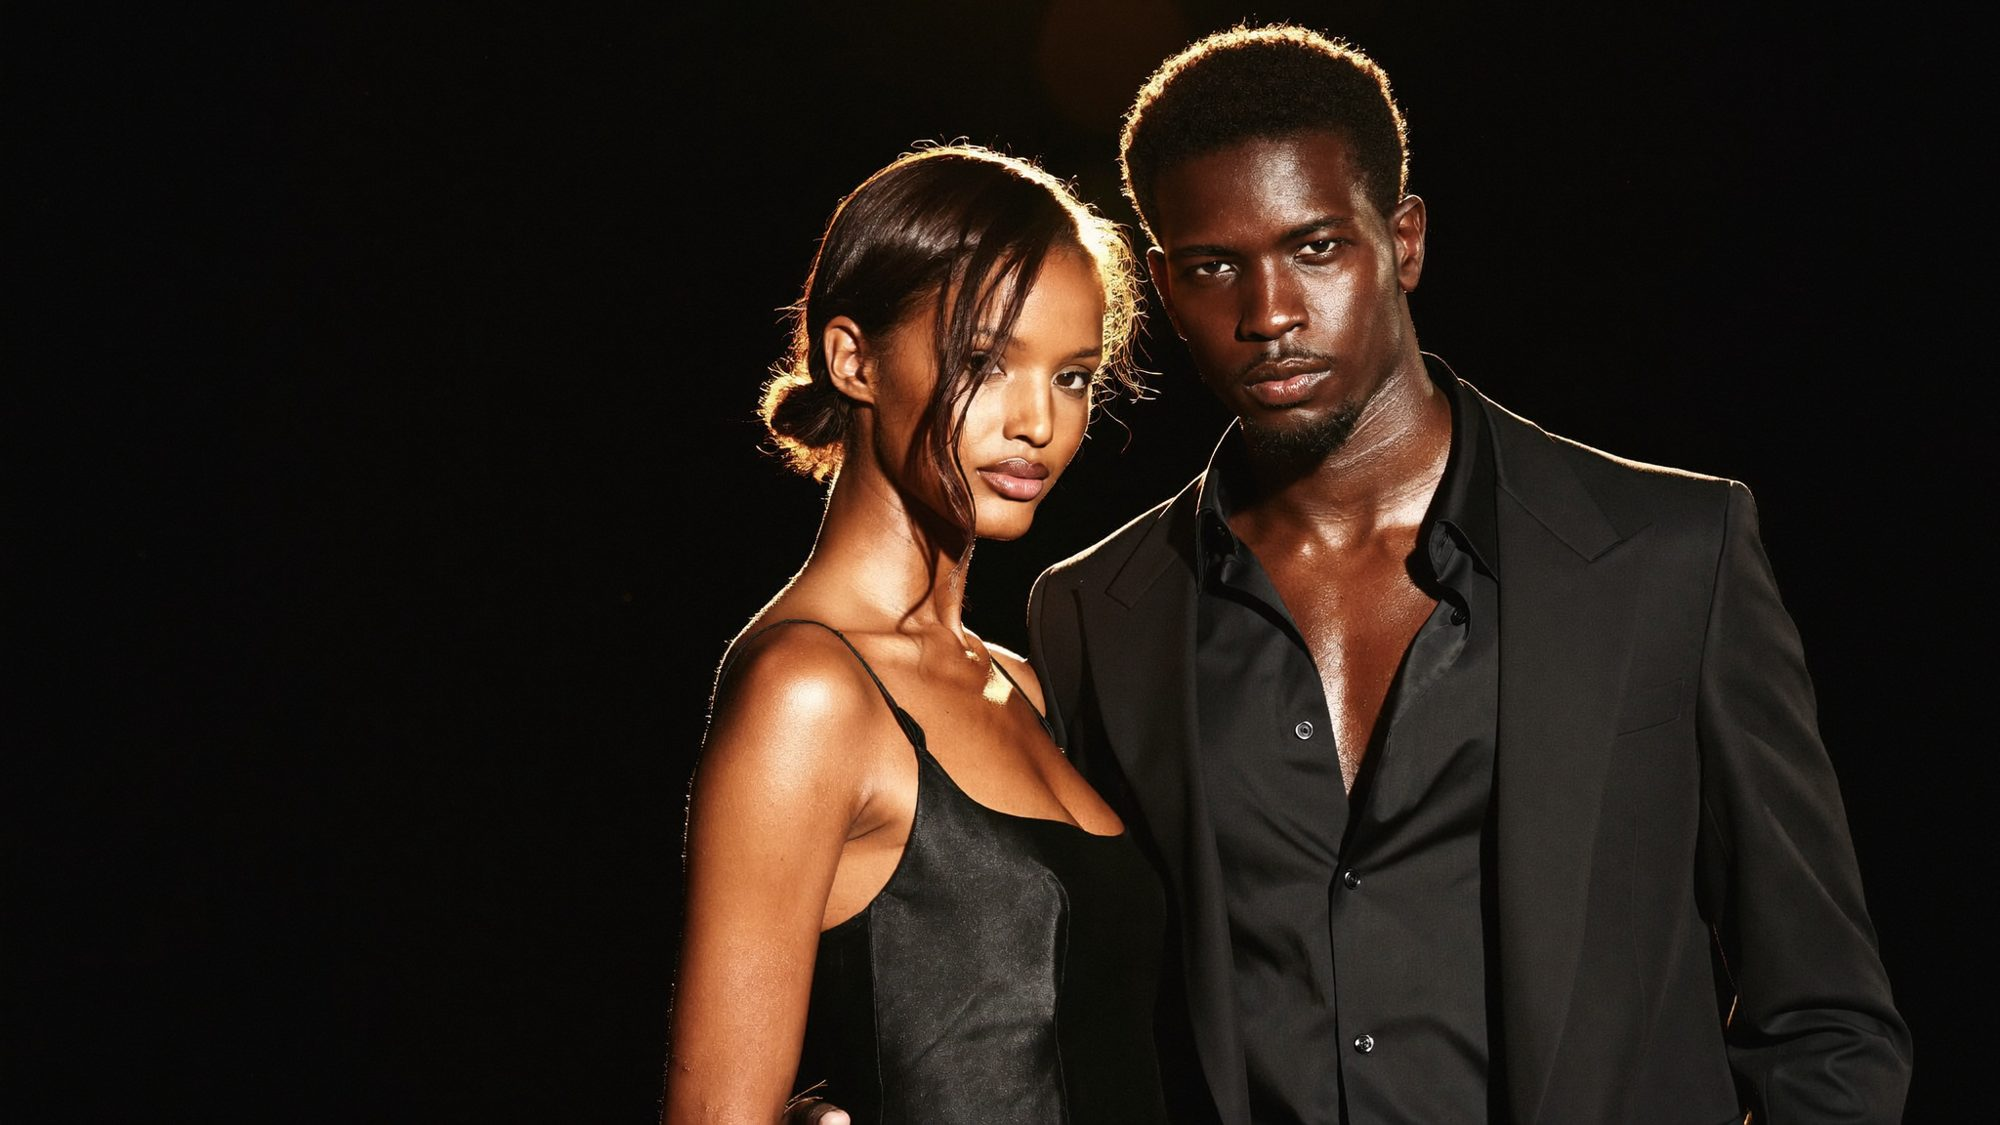
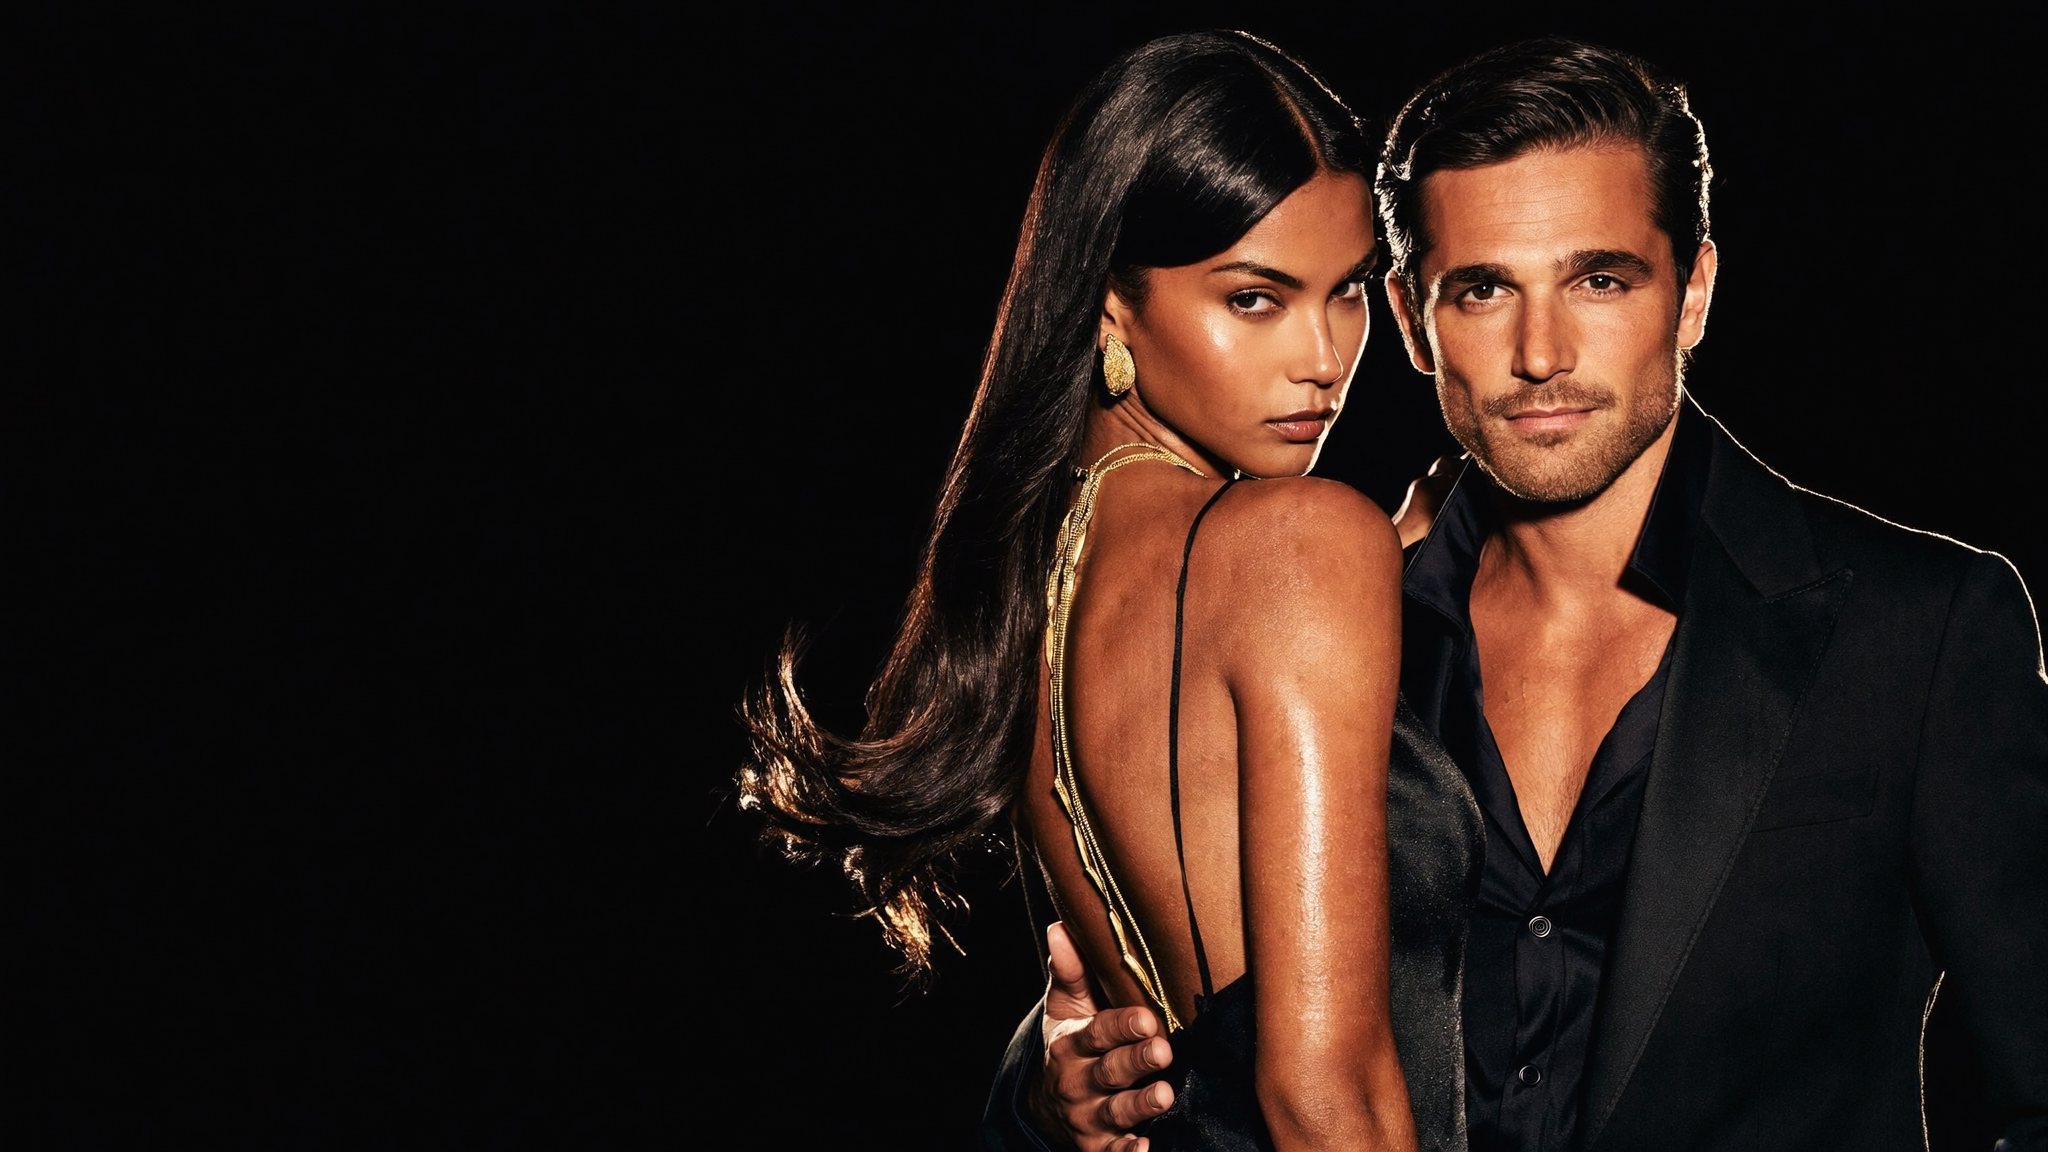
Studio pen photography, recast lifestyle imagery, header CSS

diff --git a/a/style.css b/a/style.css
@@ -687,28 +687,40 @@ h1.shim,h2.shim,.shead h2.shim,.bleed h2.shim{
 .doc .eff{font-size:12.5px;letter-spacing:.18em;text-transform:uppercase;color:#8E8880;margin-bottom:40px}
 .doc strong{color:var(--bone);font-weight:500}
 
-/* ═══ division bar: Regenerative Medicine  |  Peptides — the first thing on every page ═══ */
+/* ═══ division switch: two image panels inside the header — Regenerative Medicine | Peptides ═══ */
 nav{display:flex;flex-direction:column}
-.divbar{display:flex;align-items:center;justify-content:center;gap:34px;height:64px;
-  border-bottom:1px solid rgba(201,168,96,.16);background:rgba(0,0,0,.55);backdrop-filter:blur(14px)}
-nav.on .divbar{background:rgba(0,0,0,.94)}
-.divbar a{position:relative;text-decoration:none;color:#9C968D;padding:8px 2px;
-  font-family:Didot,"Bodoni 72","Playfair Display",Georgia,serif;font-size:22px;letter-spacing:.08em;line-height:1;
-  white-space:nowrap;transition:color .35s}
-.divbar a::after{content:"";position:absolute;left:0;right:0;bottom:-2px;height:1px;background:var(--gold);
-  transform:scaleX(0);transform-origin:left;transition:transform .45s cubic-bezier(.2,.8,.2,1)}
-.divbar a:hover{color:#F4F1EB}
-.divbar a.on{color:#F4F1EB}.divbar a.on::after,.divbar a:hover::after{transform:scaleX(1)}
-.divbar .dv{width:1px;height:26px;background:rgba(201,168,96,.45)}
+nav>.wrap{width:100%}
 nav .wrap{gap:18px}
 nav ul{gap:24px}
 nav a.lk{white-space:nowrap}
 nav .btn{white-space:nowrap;padding:14px 22px;letter-spacing:.26em;text-indent:.26em;flex:0 0 auto}
+.divbar{display:grid;grid-template-columns:1fr 1fr;height:84px;border-top:1px solid rgba(201,168,96,.14);
+  border-bottom:1px solid rgba(201,168,96,.18);background:#000;position:relative}
+.divbar::before{content:"";position:absolute;left:50%;top:0;bottom:0;width:1px;background:rgba(201,168,96,.35);z-index:3}
+.divbar .dp{position:relative;display:flex;align-items:center;justify-content:center;overflow:hidden;
+  text-decoration:none;color:#A9A39A;isolation:isolate}
+.divbar .dp img{position:absolute;inset:0;width:100%;height:100%;object-fit:cover;z-index:0;
+  opacity:.28;filter:saturate(.35);transform:scale(1.02);transition:opacity .6s,filter .6s,transform 1.2s cubic-bezier(.2,.8,.2,1)}
+.divbar .dp::after{content:"";position:absolute;inset:0;z-index:1;
+  background:linear-gradient(180deg,rgba(0,0,0,.55),rgba(0,0,0,.25) 50%,rgba(0,0,0,.65))}
+.divbar .dl{position:relative;z-index:2;font-family:Didot,"Bodoni 72","Playfair Display",Georgia,serif;
+  font-size:24px;letter-spacing:.09em;line-height:1;white-space:nowrap;text-shadow:0 2px 18px rgba(0,0,0,.9);
+  padding-bottom:6px;border-bottom:1px solid transparent;transition:color .4s,border-color .4s}
+.divbar .dk{position:relative;z-index:2;display:block;font-size:9px;letter-spacing:.42em;text-transform:uppercase;
+  color:var(--gold);margin-bottom:8px;text-align:center;opacity:.9}
+.divbar .dp>span.tx{position:relative;z-index:2;text-align:center}
+.divbar .dp:hover img{opacity:.7;filter:saturate(.9);transform:scale(1.06)}
+.divbar .dp:hover{color:#F4F1EB}
+.divbar .dp.on{color:#F4F1EB}
+.divbar .dp.on img{opacity:.9;filter:none}
+.divbar .dp.on .dl{border-bottom-color:var(--gold)}
+.divbar .dp.reg img{object-position:50% 50%}
+.divbar .dp.pep img{object-position:70% 50%}
 @media(max-width:1100px){ nav ul{gap:18px} nav a.lk{font-size:9px;letter-spacing:.22em} nav .btn{padding:13px 16px;letter-spacing:.2em;text-indent:.2em} }
-@media(max-width:960px){ nav ul{inset:auto 0 auto 0;top:156px;transform:translateY(calc(-100% - 170px))} }
-nav>.wrap{width:100%}
-@media(max-width:600px){ .divbar{height:56px;gap:20px} .divbar a{font-size:17px;letter-spacing:.05em} .divbar .dv{height:20px} }
-/* the fixed header is 64px taller now — push hero copy down to match */
-.hero-in{padding-top:196px}
-@media(min-width:1040px){ .hero-in{padding-top:204px!important} }
-@media(max-width:1039px){ .hero:not(.short) .hero-in{padding-top:182px!important} .hero.short .hero-in{padding-top:184px!important} }
+@media(max-width:960px){ nav ul{inset:auto 0 auto 0;top:92px;transform:translateY(calc(-100% - 110px));z-index:5} nav ul.open{transform:none} }
+@media(max-width:600px){ .divbar{height:66px} .divbar .dl{font-size:16px;letter-spacing:.05em} .divbar .dk{font-size:7.5px;letter-spacing:.3em;margin-bottom:5px} }
+/* the fixed header is taller now — push hero copy down to match */
+.hero-in{padding-top:216px}
+@media(min-width:1040px){ .hero-in{padding-top:224px!important} }
+@media(max-width:1039px){ .hero:not(.short) .hero-in{padding-top:190px!important} .hero.short .hero-in{padding-top:196px!important} }
+#nav::before{height:150%}
